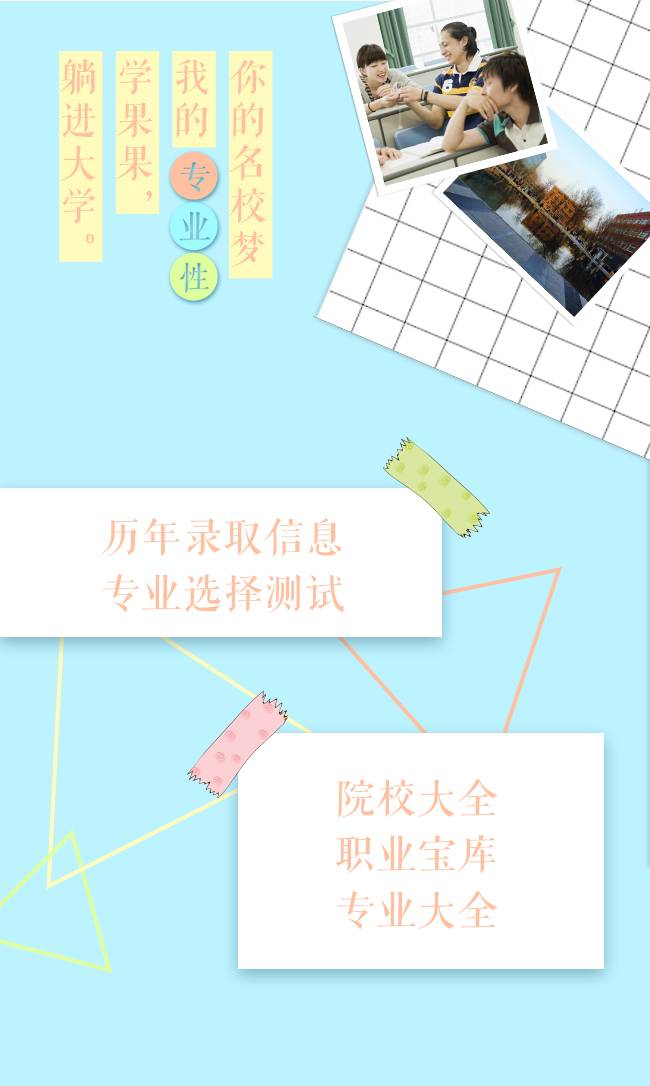
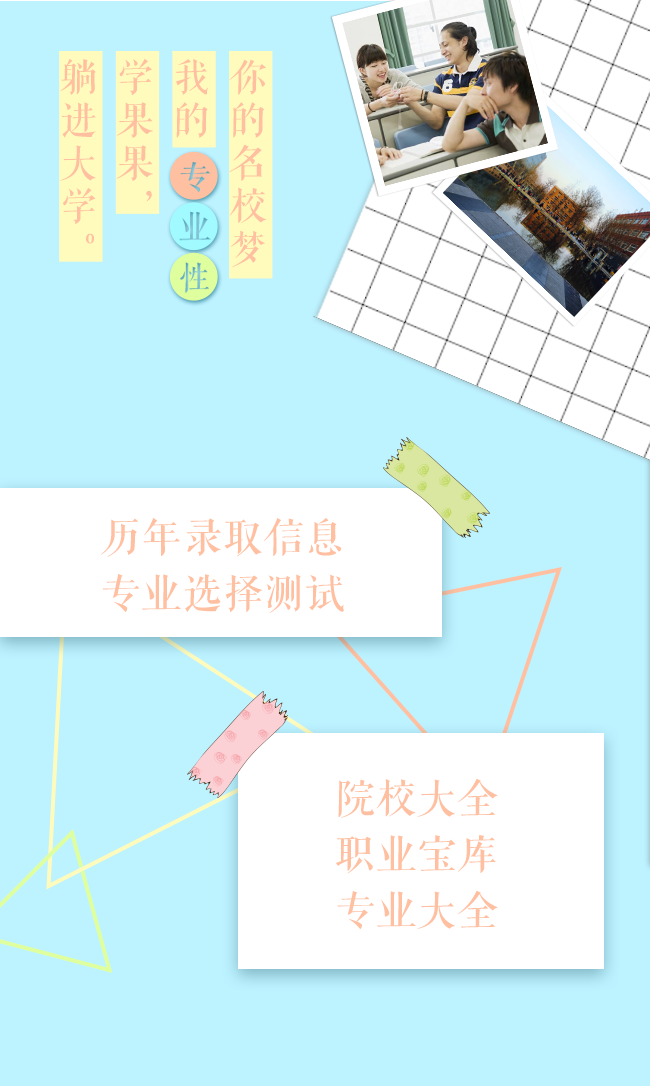
100%

diff --git a/banner_second.html b/banner_second.html
@@ -28,7 +28,7 @@
 	</script>
 	</head>
 	<body>
-		<div id="img_box" style=" background: url(img/banner2.png) no-repeat;background-size:100%;">
+		<div id="img_box" style=" background: url(img/banner2.png) no-repeat;background-size:100% 100%;">
 			
 		</div>
 	</body>

diff --git a/banner_third.html b/banner_third.html
@@ -28,7 +28,7 @@
 	</script>
 	</head>
 	<body>
-		<div id="img_box" style=" background: url(img/banner3.png) no-repeat;background-size:100%;">
+		<div id="img_box" style=" background: url(img/banner3.png) no-repeat;background-size:100% 100%;">
 			
 		</div>
 	</body>

diff --git a/index.html b/index.html
@@ -28,7 +28,7 @@
 	</script>
 	</head>
 	<body>
-		<div id="img_box" style=" background: url(img/banner1.png) no-repeat;background-size:100%;">
+		<div id="img_box" style=" background: url(img/banner1.png) no-repeat;background-size:100% 100%;">
 			
 		</div>
 	</body>

diff --git a/css/app_banner.scss b/css/app_banner.scss
@@ -4,6 +4,7 @@
 }
 
 #img_box {
+   
     width: 100%;
     height: 100%;
   
